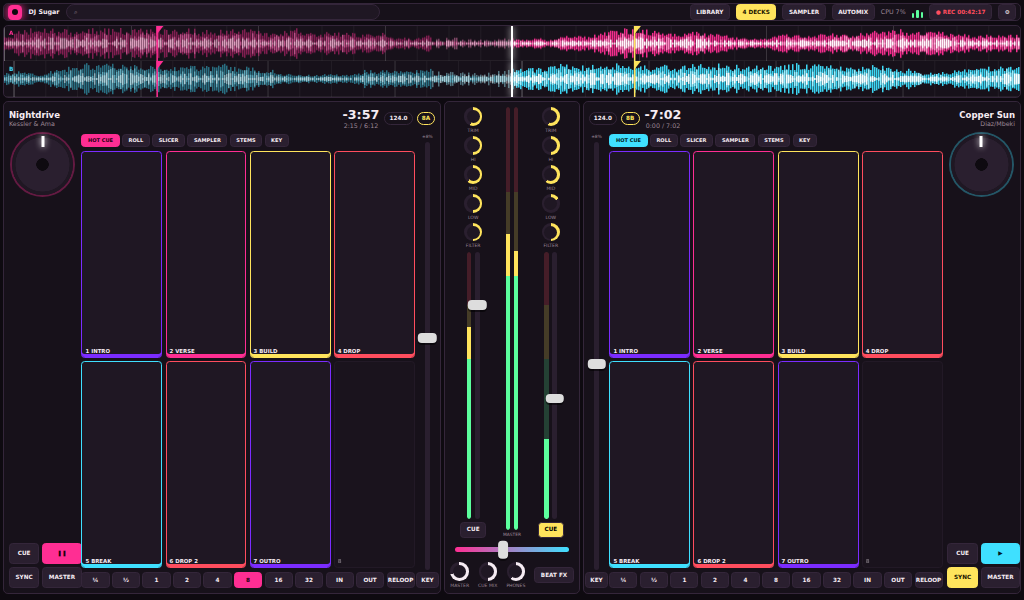
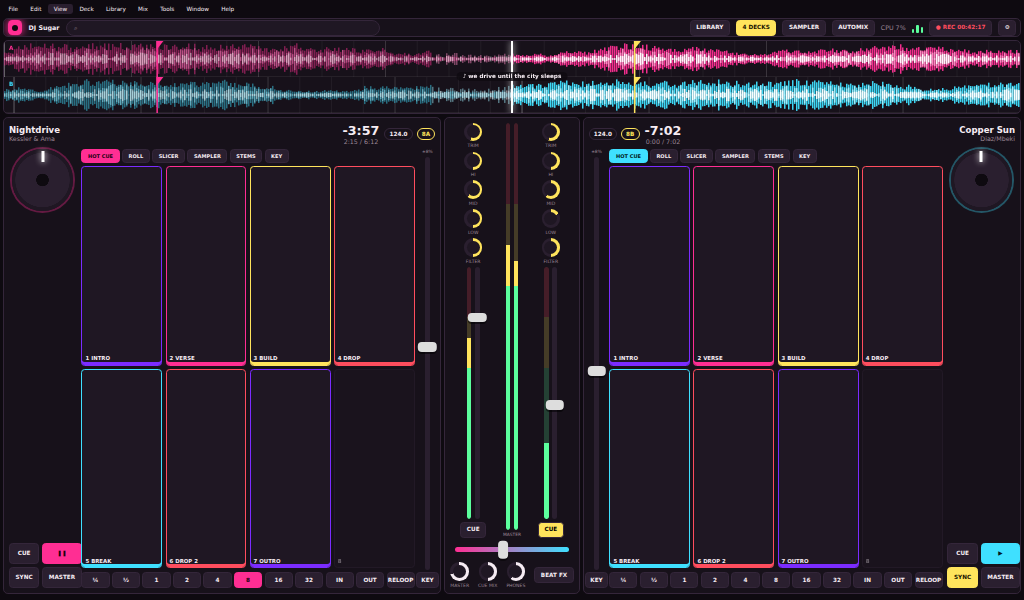
Design: menu bar, synced lyrics, full Mixxx feature scope, samples and streaming

diff --git a/docs/DESIGN.md b/docs/DESIGN.md
@@ -51,8 +51,16 @@ or any other DJ application. Ideas are studied; code, layouts and look are our o
   around a full mixer (trim, three-band EQ, filter, meters, channel faders, crossfader,
   headphone cue), and the library below with sources, track table and Up next. Small
   landscape screens drop the library and FX rows behind a button and enlarge touch targets.
+  A classic menu bar (File, Edit, View, Deck, Library, Mix, Tools, Window, Help) sits on top
+  on every platform; on macOS it moves to the system menu bar, on phones it folds into one
+  button. Every action is in the menus, so nothing is only reachable by gesture.
   Portrait is the vinyl face: one platter ring holding both waveforms, the mixer in its hub,
   decks under it.
+- Lyrics. Synced lyrics for every track, local or streaming: the current line rides on the
+  waveform, the full text scrolls in a side panel, and a fullscreen karaoke view can go to a
+  second screen. Sources: embedded tags, .lrc files beside the track, online lyric services,
+  and transcription from the vocal stem when nothing else exists. Lyrics are searchable, so
+  a track can be found by a line from it.
 - Set memory. Every set is recorded as events: loads, cues, faders, effects. Any set can be
   replayed, edited, rendered to audio, or turned into a playlist.
 - Phone-first touch. One-thumb controls in portrait, two-thumb in landscape. Every hit target
@@ -63,7 +71,30 @@ mapping, our own JavaScript engine for Mixxx mappings (crates/js, written by us)
 importers and exporters for other apps' libraries once they have been checked for third-party
 code.
 
-## 4. Architecture (Rust only)
+## 4. Feature scope: everything Mixxx has, plus DJ Sugar's additions
+
+Mixxx is the baseline; every feature it ships is in scope:
+- Decks: 2 or 4 decks, samplers (up to 64), preview deck, microphone and auxiliary inputs.
+- Playback: key lock, pitch and key shift, sync with leader/follower, quantize, slip mode,
+  reverse, censor, braking and spinback, beat jump, rate ranges, nudge and scratching.
+- Cues and loops: main cue, 36 hot cues with colours and labels, intro and outro markers,
+  saved loops, manual and beat loops, loop roll, loop move and resize.
+- Mixer: EQ (several EQ types), filter, gain, kill switches, headphone cue and split cue,
+  crossfader curves, talkover with ducking.
+- Effects: chained effect units, every built-in effect, LV2 and other plugin hosts, presets.
+- Library: tracks, playlists, crates, history, auto DJ, smart search syntax, cover art,
+  metadata editing, file tag sync, browse folders, external library import.
+- Analysis: BPM and beat grid, key, ReplayGain, waveform, intro and outro detection.
+- Hardware: MIDI and HID controllers with scripted mappings, MIDI learning, vinyl control
+  (timecode), multi-device audio routing, keyboard shortcuts.
+- Output: recording, live broadcasting, multiple outputs, master and booth.
+- Look: skins, themes, waveform types, 2 and 4 deck layouts.
+
+DJ Sugar additions carried over: YouTube, SoundCloud and Spotify search and loading with fast
+parallel downloads and SponsorBlock; the sample library (195 samples, loudness-matched) with
+the sample picker and pad banks; DDJ-FLX4 over USB and BLE MIDI; touch-first Android.
+
+## 5. Architecture (Rust only)
 
 ```
 crates/
@@ -76,6 +107,7 @@ crates/
   stems      real-time source separation, cached per track
   library    track database, smart crates, history, import/export adapters
   sources    YouTube, SoundCloud, Spotify, local folders
+  lyrics     synced lyrics: tags, .lrc, online, transcription
   control    MIDI, HID, BLE MIDI; mapping runtime on crates/js
   layout     constraint solver for the fluid layout
   ui         renderer (wgpu), widgets, theme, text, input
@@ -96,14 +128,14 @@ Decisions:
 - Tests: an allocation guard on the audio callback, golden-file tests for DSP, layout solver
   property tests across sizes from 320x480 to 3840x2160, and screenshot tests per form factor.
 
-## 5. Order of work
+## 6. Order of work
 
 1. core, layout solver and the ui skeleton: one window that renders the mockup's structure
    fluidly at every size on desktop and Android.
 2. engine, io, decode: two decks, mixer, time-stretch; allocation guard in CI.
-3. analysis, then library with local folders and the command bar.
+3. analysis, then library with local folders, the menu bar and the command bar.
 4. Mix lane and Up next.
-5. sources (port DJ Sugar's streaming), control (port crates/js and mappings).
+5. sources (streaming), samples, lyrics, control (crates/js and mappings).
 6. stems, Sandbox, transition planner, set memory.
 7. Importers and exporters, USB export, recording and broadcast.
 8. Video, lighting, Automix (Automix only after its design has been agreed).
